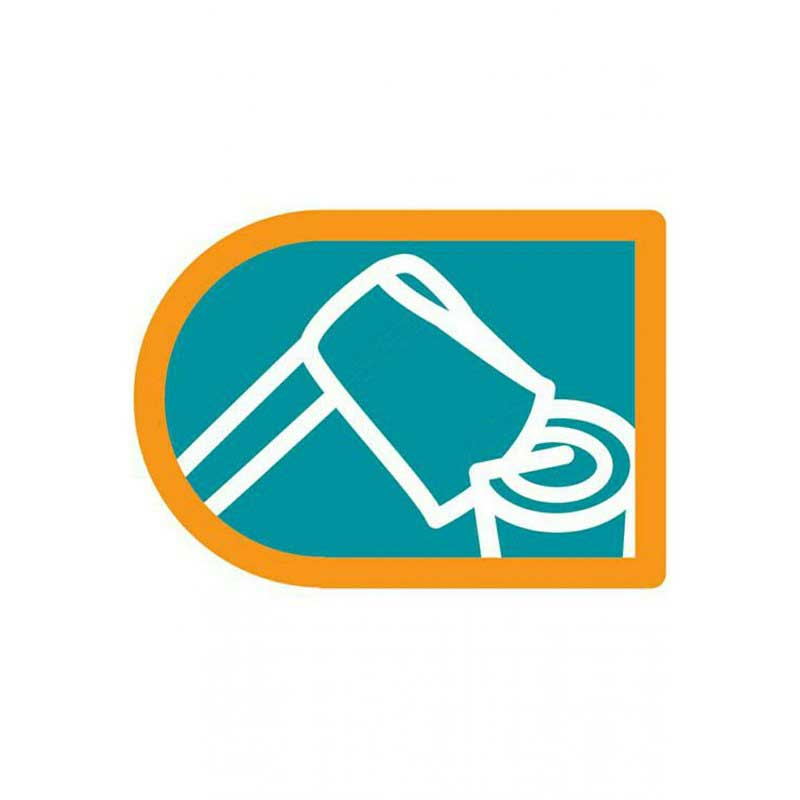
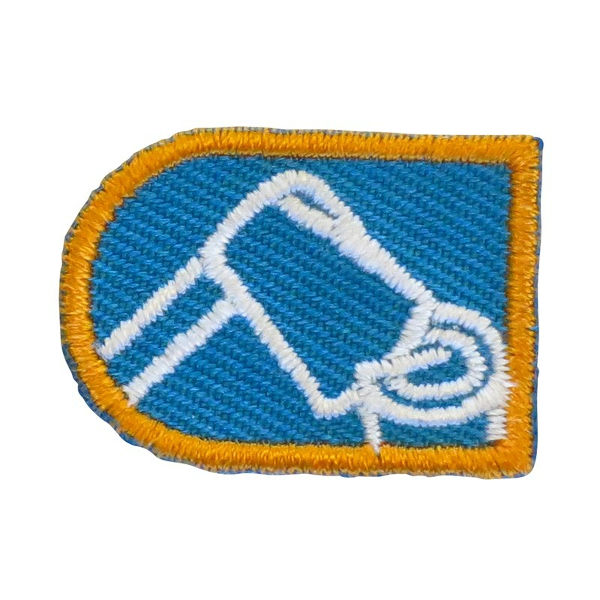
added new søspejder badges, and changed a lot of old images to better ones

diff --git a/_m/dds-soespejder.html b/_m/dds-soespejder.html
@@ -1,11 +1,14 @@
 ---
-name: Søspejder
+name: Søspejder Udvidet
 description: >
   <p>Forløbsmærket giver spejderen teoretisk og praktisk viden til at kunne planlægge et forløb med aktiviteter på vandet, der gør spejderen i stand til at tage på ture med sejlbåd.</p>
+  <p>Spejdere med søspejder UDVIDET har / kan:</p>
   <ul>
-    <li><a href="http://dds.dk/soespejder-basis">Søspejder Basis</a></li>
-    <li><a href="http://dds.dk/soespejder-udvidet">Søspejder Udvidet</a></li>
-    <li><a href="http://dds.dk/soespejder-ekspert">Søspejder Ekspert</a></li>
+    <li>Kendskab til elementære færdselsregler til søs.</li>
+    <li>Kendskab ti grundlæggende navigation.</li>
+    <li>Klargøre patruljebåd før og efter sejlads.</li>
+    <li>Sejle en patruljebåd.</li>
+    <li>Kendskab til mand-over-bord-manøvre.</li>
   </ul>
 tags:
 - DDS
@@ -15,7 +18,7 @@ tags:
 - søspejder
 age: 12+
 coverimage: cover-boat.jpg
-image: dds-soespejder.jpg
-buylink: http://www.spejdersport.dk/soespejdermaerke-basis.aspx
-infolink: http://dds.dk/forloebsmaerker
+image: dds-soespejder-udvidet.jpg
+buylink: https://www.spejdersport.dk/soespejdermaerke-udvidet.aspx
+infolink: http://dds.dk/soespejder-udvidet
 ---

diff --git a/_m/dds-faerdighed-telt.html b/_m/dds-faerdighed-telt.html
@@ -3,7 +3,6 @@ name: Telt
 description: >
   <p>Spejdere på tur har sovet ude i naturen, lige så længe spejderbevægelsen har eksisteret. Det er en naturlig del af vores aktiviteter. Når vi sover i naturen, skærmer teltet fantastisk mod vind og vand. Dertil holder det godt på varmen og det er hyggeligt. Alle, der har prøvet det, ved at en overnatning i det fri giver gode kræfter til morgendagens anstrengelser og at fuglenes kvidren er det bedste vækkeur.</p>
   <p>Spejdere med færdighedsmærket telt: Kan slå telt op, Har viden om forskellige telttyper, Har viden om hvordan man passer på og vedligeholder et telt.</p>
-  <a href="http://dds.dk/sites/default/files/u11929/F%C3%A6rdighedsm%C3%A6rket%20Telt.pdf">Læs mere (PDF)</a>
 tags:
 - DDS
 - blå-spejder
@@ -13,5 +12,5 @@ tags:
 age: 8-16
 image: dds-faerdighed-telt.jpg
 buylink: http://www.spejdersport.dk/faerdighedsmaerke-telt.aspx
-infolink: http://dds.dk/faerdighedsmaerker
+infolink: http://dds.dk/sites/default/files/u11929/F%C3%A6rdighedsm%C3%A6rket%20Telt.pdf
 ---

diff --git a/_m/dds-faerdighed-baal.html b/_m/dds-faerdighed-baal.html
@@ -3,7 +3,6 @@ name: Bål
 description: >
   <p>Bål er en af de ting de allerfleste forbinder med at være spejder. Vi brugerbålet til madlavning og til hygge. Når vi laver mad på bål, er det en del af det at kunne klare sig uden de teknologiske hjælpmidler vi er omgivet af i vores hverdag. Hyggen om lejrbålet er for mange den allerbedste måde at være sammen på efter en lang dag med aktiviteter i det fri.</p>
   <p>Spejdere med færdighedsmærket bål kan: tænde bål med to tændstikker, Kender de forskellige båltyper og brænde,Lave en bålplads, Ved om sikkerhed ved bålet.</p>
-  <a href="http://dds.dk/sites/default/files/u11929/Faerdighedsmaerket_Baal_01.pdf">Læs mere (PDF)</a>
 tags:
 - DDS
 - blå-spejder
@@ -14,5 +13,5 @@ age: 10-16
 coverimage: cover-campfire2.jpg
 image: dds-faerdighed-baal.jpg
 buylink: http://www.spejdersport.dk/faerdighedsmaerke-baal.aspx
-infolink: http://dds.dk/faerdighedsmaerker
+infolink: http://dds.dk/sites/default/files/u11929/Faerdighedsmaerket_Baal_01.pdf
 ---

diff --git a/_m/dds-soespejder-basis.html b/_m/dds-soespejder-basis.html
@@ -1,0 +1,25 @@
+---
+name: Søspejder Basis
+description: >
+  <p>Forløbsmærket giver spejderen teoretisk og praktisk viden til at kunne planlægge et forløb med aktiviteter på vandet, der gør spejderen i stand til at tage på ture med sejlbåd.</p>
+  <p>Spejdere med søspejder BASIS har / kan:</p>
+  <ul>
+    <li>Kendskab til DDS og gruppens søsikkerhedsregler.</li>
+    <li>Kendskab til nogle af færdselsreglerne til søs.</li>
+    <li>Være med til at rigge en patruljebåd til og af.</li>
+    <li>Fungerer som besætningsmedlem i en patruljebåd.</li>
+    <li>Vandfortrolighed.</li>
+    <li>Pakke personlig udrustning til sejlende weekend.</li>
+  </ul>
+tags:
+- DDS
+- blå-spejder
+- forløb
+- DDS-forløbsmærke
+- søspejder
+age: 12+
+coverimage: cover-boat.jpg
+image: dds-soespejder-basis.jpg
+buylink: https://www.spejdersport.dk/soespejdermaerke-basis.aspx
+infolink: http://dds.dk/soespejder-basis
+---

diff --git a/_m/dds-soespejder-ekspert.html b/_m/dds-soespejder-ekspert.html
@@ -1,0 +1,24 @@
+---
+name: Søspejder Ekspert
+description: >
+  <p>Forløbsmærket giver spejderen teoretisk og praktisk viden til at kunne planlægge et forløb med aktiviteter på vandet, der gør spejderen i stand til at tage på ture med sejlbåd.</p>
+  <p>Spejdere med søspejder EKSPERT har / kan:</p>
+  <ul>
+    <li>Tage ansvar ved at organisere og gennemføre en weekendtur.</li>
+    <li>Uddelegere opgaver af større eller mindre omfang.</li>
+    <li>Evaluere en planlagt sejltur.</li>
+    <li>Udføre en mand-over-bord-manøvre.</li>
+    <li>Føre et patruljefartøj på betryggende vis.</li>
+  </ul>
+tags:
+- DDS
+- blå-spejder
+- forløb
+- DDS-forløbsmærke
+- søspejder
+age: 12+
+coverimage: cover-boat.jpg
+image: dds-soespejder-ekspert.jpg
+buylink: https://www.spejdersport.dk/soespejdermaerke-ekspert.aspx
+infolink: http://dds.dk/soespejder-ekspert
+---

diff --git a/_m/dds-faerdighed-svoemmesikkerhed.html b/_m/dds-faerdighed-svoemmesikkerhed.html
@@ -3,7 +3,6 @@ name: Svømme&#173;sikkerhed
 description: >
   <p>At beherske svømning er en vigtig sikkerhedsmæssig færdighed, at beherske i et land som Danmark og besiddelse af svømmefærdigheder er en forudsætning for, at kunne deltage i sø-aktiviteter i Det Danske Spejderkorps.</p>
   <p>Alle medlemmer, der har modtaget svømmesikkerhedsmærket, kan svømme 200 m og er fortrolig med ophold i vandet iført redningsvest.</p>
-  <a href="http://dds.dk/sites/default/files/u15542/Sv%C3%B8mmesikkerhedsbevis.pdf">Læs mere (PDF)</a>
 tags:
 - DDS
 - blå-spejder
@@ -15,5 +14,5 @@ age: 12-16
 coverimage: cover-swimming.jpg
 image: dds-faerdighed-svoemmesikkerhed.jpg
 buylink: http://www.spejdersport.dk/faerdighedsmaerke-svoemmesikkerhed.aspx
-infolink: http://dds.dk/faerdighedsmaerker
+infolink: http://dds.dk/sites/default/files/u15542/Sv%C3%B8mmesikkerhedsbevis.pdf
 ---

diff --git a/_m/dds-faerdighed-oekse.html b/_m/dds-faerdighed-oekse.html
@@ -3,7 +3,6 @@ name: Økse
 description: >
   <p>Øksen er et vigitgt værktøj på spejderlejren. Den er uundværlig til brændekløvning, men bliver også bruge til afgrening og til pionerarbejder. Øksen er et tungt, skarpt værktøj og det er vigtigt at kunne håndtere øksen sikkert.</p>
   <p>Spejdere med færdighedsmærket økse: Bruger øksen korrekt, Er fortrolige med øksen, Kender sikkerhedsreglerne, Ved hvordan man passer og vedligeholder øksen.</p>
-  <a href="http://dds.dk/sites/default/files/u11929/Faerdighedsmaerket_OEkse.pdf">Læs mere (PDF)</a>
 tags:
 - DDS
 - blå-spejder
@@ -14,5 +13,5 @@ age: 10-16
 coverimage: cover-axe.jpg
 image: dds-faerdighed-oekse.jpg
 buylink: http://www.spejdersport.dk/faerdighedsmaerke-oekse.aspx
-infolink: http://dds.dk/faerdighedsmaerker
+infolink: http://dds.dk/sites/default/files/u11929/Faerdighedsmaerket_OEkse.pdf
 ---

diff --git a/_m/dds-faerdighed-kniv.html b/_m/dds-faerdighed-kniv.html
@@ -3,7 +3,6 @@ name: Kniv
 description: >
   <p>For mange små spejdere er det at må gå med kniv, og det at bruge den til møder og på ture en stor oplevelse, der adskiller spejderarbejdet fra mange andre aktiviteter. De elsker at sidde med kammeraterne rundt om bålet og snitte i en pind.</p>
   <p>Spejdere med færdighedsmærket kniv kan: de korrekte navne på de forskellige dele af kniven, sikkerhedreglerne og Passe på og vedligeholde kniven.</p>
-  <a href="http://dds.dk/sites/default/files/Faerdighedsmaerket_Kniv_01.pdf">Læs mere (PDF)</a>
 tags:
 - DDS
 - blå-spejder
@@ -15,5 +14,5 @@ age: 8-16
 coverimage: cover-knife.jpg
 image: dds-faerdighed-kniv.jpg
 buylink: http://www.spejdersport.dk/faerdighedsmaerke-kniv.aspx
-infolink: http://dds.dk/faerdighedsmaerker
+infolink: http://dds.dk/sites/default/files/Faerdighedsmaerket_Kniv_01.pdf
 ---

diff --git a/_m/dds-faerdighed-sav.html b/_m/dds-faerdighed-sav.html
@@ -3,7 +3,6 @@ name: Sav
 description: >
   <p>Saven er vigtigt værktøj på spejderlejr. Den er uundværlig, når vi laver brænde, og bliver også brugt til pionerarbejde. Som andet skærende værktøj, kan saven være farlig, hvis den ikke anvendes korrekt.</p>
   <p>Spejdere med mærket sav: Kan bruge saven, Kender de forskellige dele af saven, Kender sikkerhedsreglerne, Kan vedligeholde saven.</p>
-  <a href="http://dds.dk/sites/default/files/u11929/Faerdighedsmaerket_Sav.pdf">Læs mere (PDF)</a>
 tags:
 - DDS
 - blå-spejder
@@ -13,5 +12,5 @@ tags:
 age: 8-16
 image: dds-faerdighed-sav.jpg
 buylink: http://www.spejdersport.dk/faerdighedsmaerke-sav.aspx
-infolink: http://dds.dk/faerdighedsmaerker
+infolink: http://dds.dk/sites/default/files/u11929/Faerdighedsmaerket_Sav.pdf
 ---

diff --git a/_m/dds-faerdighed-pioner.html b/_m/dds-faerdighed-pioner.html
@@ -3,7 +3,6 @@ name: Pioner
 description: >
   <p>Få styr på rafter og besnøringer, så du er klar til, at få bygget lejrpladsen op på sommerlejren, eller bygge broer over de vandløb I møder på hjek.</p>
   <p>Spejdere med færdighedsmærket pioner kan: den grundlæggende sikkerhed, de vigtigste knob og stik, de vigtigste besnøringer, Kender til kulsø.</p>
-  <a href="http://dds.dk/sites/default/files/u11929/F%C3%A6rdighedsm%C3%A6rket%20pioner.pdf">Læs mere (PDF)</a>
 tags:
 - DDS
 - blå-spejder
@@ -13,5 +12,5 @@ tags:
 age: 10-16
 image: dds-faerdighed-pioner.jpg
 buylink: http://www.spejdersport.dk/faerdighedsmaerke-pioner.aspx
-infolink: http://dds.dk/faerdighedsmaerker
+infolink: http://dds.dk/sites/default/files/u11929/F%C3%A6rdighedsm%C3%A6rket%20pioner.pdf
 ---

diff --git a/_m/dds-faerdighed-klardigselv.html b/_m/dds-faerdighed-klardigselv.html
@@ -2,7 +2,6 @@
 name: Klar dig selv
 description: >
   <p>En rigtig spejder kan klarer sig selv i dagligdagen - lap en cykel, skift et hjul, lav en indkøbsseddel + meget mere - er færdigheder du skal have styr for at få dette mærke.</p>
-  <a href="http://dds.dk/sites/default/files/u11929/Faerdighedsmaerket_Klar_dig_selv_01.pdf">Læs mere (PDF)</a>
 tags:
 - DDS
 - blå-spejder
@@ -11,5 +10,5 @@ tags:
 age: 6-12
 image: dds-faerdighed-klardigselv.jpg
 buylink: http://www.spejdersport.dk/faerdighedsmaerke-klar-dig-selv.aspx
-infolink: http://dds.dk/faerdighedsmaerker
+infolink: http://dds.dk/sites/default/files/u11929/Faerdighedsmaerket_Klar_dig_selv_01.pdf
 ---

diff --git a/_m/dds-faerdighed-stormkoekken.html b/_m/dds-faerdighed-stormkoekken.html
@@ -9,7 +9,6 @@ description: >
     <li>Kan betjene et stormkøkken sikkert, herunder rengøre og vedligeholde</li>
     <li>Har lavet 2-3 måltider af forskellig type (”bage”, koge, stege) på et stormkøkken</li>
   </ul>
-  <a href="http://dds.dk/sites/default/files/Stormk%C3%B8kken_final.pdf">Læs mere (PDF)</a>
 tags:
 - DDS
 - blå-spejder
@@ -19,5 +18,5 @@ tags:
 age: 10-16
 image: dds-faerdighed-stormkoekken.jpg
 buylink: http://www.spejdersport.dk/faerdighedsmaerke-stormkoekken.aspx
-infolink: http://dds.dk/faerdighedsmaerker
+infolink: http://dds.dk/sites/default/files/Stormk%C3%B8kken_final.pdf
 ---
